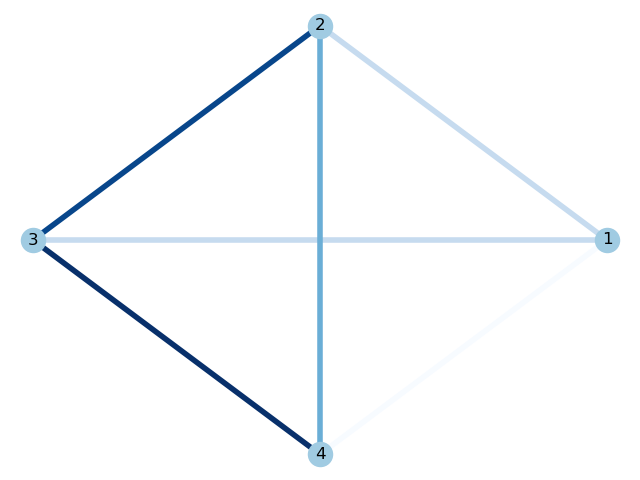
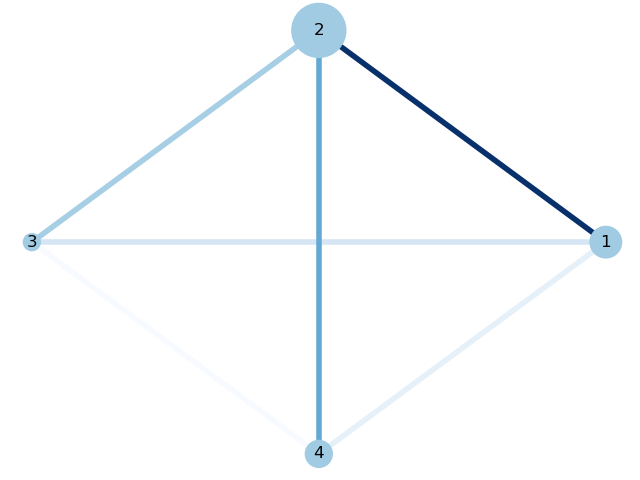
fix plots

Changed region(s): [[0.0312, 0.0, 0.9688, 0.9688]]

diff --git a/apps/plot/plot.py b/apps/plot/plot.py
@@ -1,6 +1,8 @@
 import csv
 import wave
 import numpy as np
+import matplotlib
+matplotlib.use('Agg')
 import matplotlib.pyplot as plt
 import networkx as nx
 from io import StringIO
@@ -26,51 +28,58 @@ class Plot(object):
 		interTimes = [[],[],[],[]]
 		timeActivity = []
 		lastPosition = -1
+		silence = 0
 		print(self.__outputPath)
 		reader = csv.DictReader(self.__file, delimiter=";")
 		for row in reader:
 			if int(row['speak']):
 				if int(row['direction']) != lastPosition:
 					if lastPosition != -1:
+						for i in range(silence):
+							self.__activityContinuos[lastPosition].pop()
 						interTimes[lastPosition].append(timeActivity)
 						timeActivity = []
 						self.FindUsersInteraction(lastPosition+1, int(row['direction'])+1)
 				timeActivity.append(float(row['seconds']))
 				lastPosition = int(row['direction'])
 				self.__activity[lastPosition].append(float(row['seconds']))
-			if lastPosition != -1:
-				self.__activityContinuos[lastPosition].append(float(row['seconds']))
+				silence = 0
+			else:
+				silence += 1
+			
+			self.__activityContinuos[lastPosition].append(float(row['seconds']))
 			self.__time = row['seconds']
 
 	def UsersSpeak(self):
 		#figure = plt.gcf() # get current figure
 		#figure.set_size_inches(12, 5, forward=True)
-		#plt.figure(figsize=(12, 4))
+		plt.figure(figsize=(12, 4))
 		plt.subplot(2,1,1)
-		plt.xticks(np.arange(0, float(self.__time)+1, 10))
+		div = float(self.__time)*0.12
+		plt.xticks(np.arange(0, float(self.__time)+1, int(float(self.__time)/div)))
 		plt.yticks([1],["Voz activa"])
-		plt.vlines(self.__activity[0], 0, 1, linewidth=0.05, label='Usuario 1', color='red')
-		plt.vlines(self.__activity[1], 0, 1, linewidth=0.05, label='Usuario 2', color='blue')
-		plt.vlines(self.__activity[2], 0, 1, linewidth=0.05, label='Usuario 3', color='green')
-		plt.vlines(self.__activity[3], 0, 1, linewidth=0.05, label='Usuario 4', color='orange')
+		linewidth = float(self.__time)/300
+		plt.vlines(self.__activity[0], 0, 1, linewidth=linewidth, label='Usuario 1', color='red')
+		plt.vlines(self.__activity[1], 0, 1, linewidth=linewidth, label='Usuario 2', color='blue')
+		plt.vlines(self.__activity[2], 0, 1, linewidth=linewidth, label='Usuario 3', color='green')
+		plt.vlines(self.__activity[3], 0, 1, linewidth=linewidth, label='Usuario 4', color='orange')
 		plt.xlabel("tiempo (segundos)") 
 		plt.title("Activación de voz con silencios")
 		plt.subplot(2,1,2)
 		plt.xticks(np.arange(0, float(self.__time)+1, 10))
 		plt.yticks([1],["Voz activa"])
-		plt.vlines(self.__activityContinuos[0], 0, 1, linewidth=0.05, label='Usuario 1', color='red')
-		plt.vlines(self.__activityContinuos[1], 0, 1, linewidth=0.05, label='Usuario 2', color='blue')
-		plt.vlines(self.__activityContinuos[2], 0, 1, linewidth=0.05, label='Usuario 3', color='green')
-		plt.vlines(self.__activityContinuos[3], 0, 1, linewidth=0.05, label='Usuario 4', color='orange')
+		plt.vlines(self.__activityContinuos[0], 0, 1, linewidth=linewidth, label='Usuario 1', color='red')
+		plt.vlines(self.__activityContinuos[1], 0, 1, linewidth=linewidth, label='Usuario 2', color='blue')
+		plt.vlines(self.__activityContinuos[2], 0, 1, linewidth=linewidth, label='Usuario 3', color='green')
+		plt.vlines(self.__activityContinuos[3], 0, 1, linewidth=linewidth, label='Usuario 4', color='orange')
 		plt.xlabel("tiempo (segundos)") 
-		plt.title("Activación de voz sin silencios")
-		#plt.tight_layout()
-		
+		plt.title("Activación de voz sin silencios")		
 		#plt.legend(frameon=True, framealpha=0.6)
 		leg = plt.legend(loc='upper center', bbox_to_anchor=(0.5, -0.5), fancybox=False, shadow=False, 
 				ncol=5)
 		for line in leg.get_lines():
 			line.set_linewidth(4.0)
+		plt.tight_layout()
 		plt.savefig(self.__outputPath+'/users_speak.png')
 		#plt.show()
 		plt.close()
@@ -90,10 +99,22 @@ class Plot(object):
 			self.__relations[5] += 1
 
 	def UsersInteraction(self):
+		node_speak = []
+		pix_max = 2000
+		pix_min = 500
+		func_max = []
+		func_min = []
+		maximo = max([len(self.__activity[0]),len(self.__activity[1]),len(self.__activity[2]),len(self.__activity[3])])
+		print(maximo)
+		for i in range(0, len(self.__activity)):
+			print(len(self.__activity[i]))
+			node_speak.append(len(self.__activity[i]))
+			func_max.append(int((float(len(self.__activity[i]))/maximo)*(pix_max-pix_min)+10))
+		print(func_max)
 		edgelist = [(1,2),(1,3),(1,4),(2,3),(2,4),(3,4)]
 		G=nx.Graph(edgelist)
 		pos=nx.circular_layout(G)
-		nx.draw(G,pos,node_color='#A0CBE2',edge_color=self.__relations,width=4,edge_cmap=plt.cm.Blues,with_labels=True)
+		nx.draw(G,pos,node_color='#A0CBE2',node_size=func_max, edge_color=self.__relations,width=4,edge_cmap=plt.cm.Blues,with_labels=True)
 		#plt.show()
 		plt.savefig(self.__outputPath+'/users_interaction.png')
 		plt.close()
